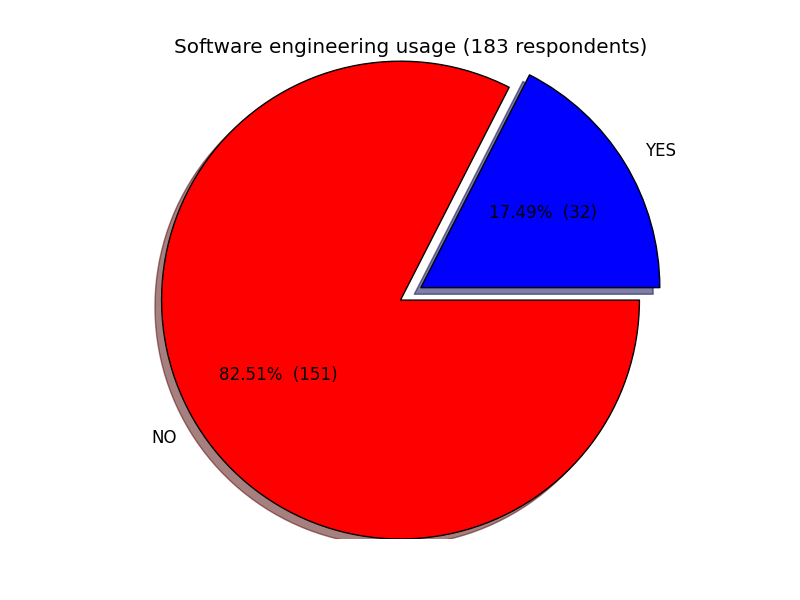
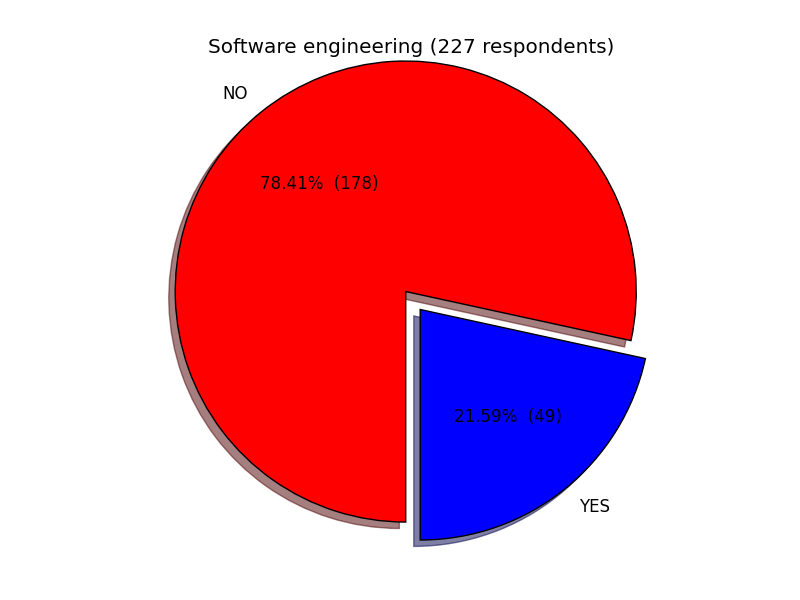
update usage statistics

diff --git a/fortran_usage/fortran_usage.py b/fortran_usage/fortran_usage.py
@@ -31,7 +31,7 @@ fig, plt1 = plt.subplots( )
 
 l1 = plt1.bar( xrange, fortran_usage, label = 'off', color = 'blue' )
 plt1.set_ylabel( 'Usage' )
-plt1.set_xlabel( 'Fortran standard' )
+#plt1.set_xlabel( 'Topic' )
 plt1.grid( True )
 
 # plt2 = plt1.twinx( )
@@ -45,7 +45,11 @@ plt1.grid( True )
 
 # plt.legend( ( l1, l2, l3 ), ( 'off', 'on', 'diff' ), loc = 'upper right' )
 plt.axis( xmin = -0.4, xmax = fortran_usage.size )
-plt.xticks( xrange + 0.4, fortran_standard )
+plt.xticks( xrange + 0.4, fortran_standard, rotation = 60, size = 'small' )
 plt.title( options.title )
+#plt.tick_params( length = 6 )
+#plt.subplots_adjust(bottom=0.15)
+#plt.gca().tight_layout()
+# plt.margins(0.2)
 plt.savefig( options.output_file )
  

diff --git a/fortran_usage/fortran_pie.py b/fortran_usage/fortran_pie.py
@@ -34,7 +34,7 @@ def make_autopct(values):
 #         colors = [ 'blue', 'red'] )
 
 plt.pie( usage, labels = used, autopct = make_autopct( usage ), shadow = True, explode = ( 0.1, 0.0 ), \
-         colors = [ 'blue', 'red'], startangle = -90 )
+         colors = [ 'blue', 'red'], startangle = -45 )
 
 plt.axis( 'equal' )
 plt.title( options.title + ' (' + str( np.sum( usage ) ) + ' respondents)')
